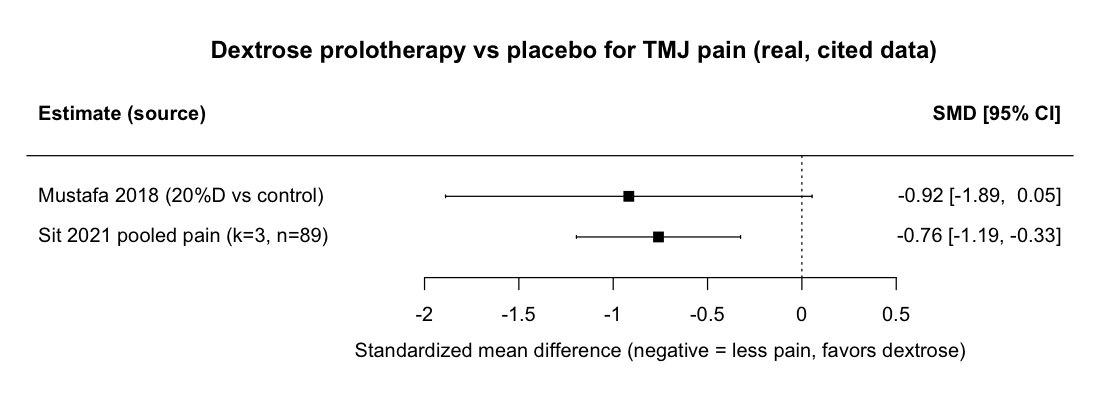
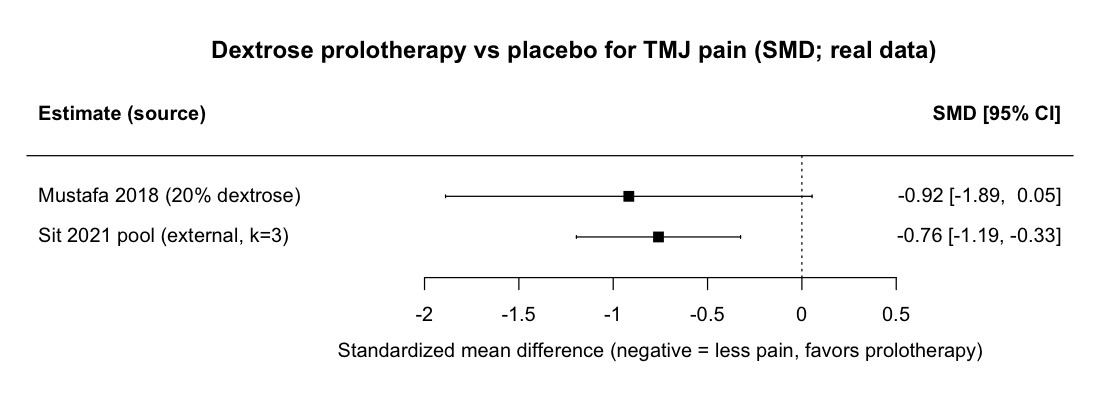
P3: data-driven meta-analysis engine (pooling, heterogeneity, sensitivity)
- R/01_meta_analysis.R now reads per-trial raw arms from
  data/raw/trial_arms.csv and computes each trial's SMD. When >= 2 controlled
  trials have extractable raw arms it fits a REML random-effects pool and
  reports I^2, tau^2, Q, a 95% prediction interval, leave-one-out, and
  subgroup moderator tests (by joint, agent, RoB) where sizes allow.
- Only complete rows are used; trials whose full-text arms are paywalled are
  listed as pending TODO and never imputed. At the current k=1 (Mustafa 2018)
  the pool is not run; a metric-robustness check (Hedges g vs Cohen d) is.
- Published pooled estimates shown as an independent cross-check (not
  re-pooled with their own component trials). Forest plot updated to the SMD
  scale with the external published pool labeled as such.
- Validated the k>=2 path with temporary test rows (pool, PI, leave-one-out,
  subgroups all run) before restoring the real single-trial data.

diff --git a/README.md b/README.md
@@ -45,7 +45,7 @@ People with joint hypermobility are often offered regenerative injections (PRP, 
 
 ![Forest plot](figures/forest_plot.png)
 
-*Published pooled estimate (Sit et al. 2021, 3 RCTs): standardized mean difference −0.76 (95% CI −1.19 to −0.32), favoring prolotherapy, with zero heterogeneity.*
+*On the SMD scale: the one placebo-controlled trial with extractable raw arms (Mustafa 2018, computed from scratch) shown against the published pooled estimate (Sit et al. 2021, 3 RCTs: SMD −0.76, 95% CI −1.19 to −0.32, I²=0%) as an independent cross-check. The analysis engine (`R/01_meta_analysis.R`) fits a random-effects pool with I², a 95% prediction interval, leave-one-out, and subgroup tests automatically once ≥2 controlled trials have raw arms in `data/raw/trial_arms.csv`; the remaining trials' arms are paywalled and flagged as TODO rather than imputed.*
 
 **Study selection (PRISMA flow)**
 
@@ -74,6 +74,7 @@ Halcyon/
 │   ├── raw/                 # source data, read-only (hand-curated)
 │   │   ├── studies.csv          # coded primary studies (the evidence map)
 │   │   ├── pooled_results.csv   # published pooled estimates, with DOIs
+│   │   ├── trial_arms.csv       # per-arm raw data for from-scratch pooling
 │   │   ├── prisma_counts.csv    # PRISMA record funnel (search log)
 │   │   └── rob.csv              # risk-of-bias coding per study
 │   └── processed/           # script-generated tables (git-ignored)
